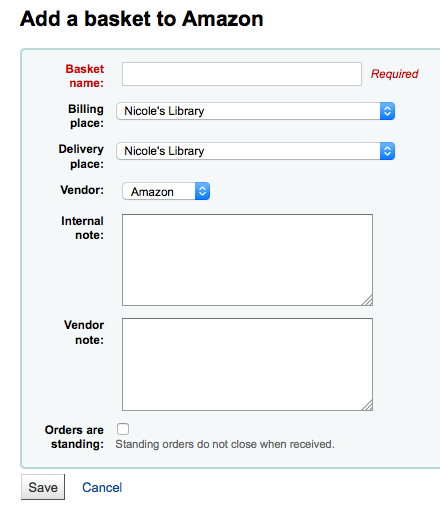
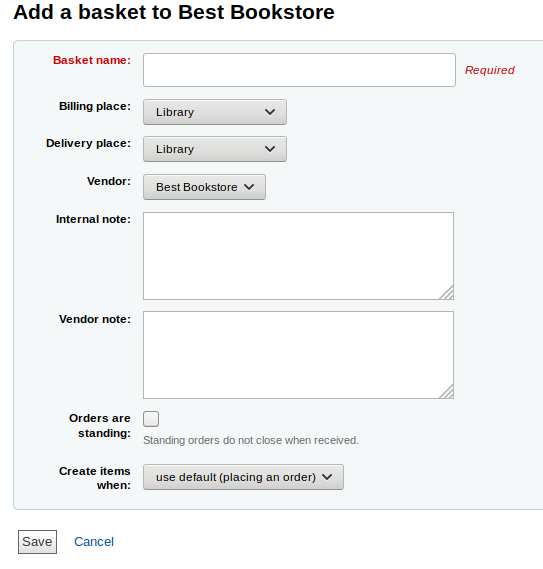
Revision of Create a basket section

diff --git a/source/acquisitions.rst b/source/acquisitions.rst
@@ -331,9 +331,11 @@ And click the 'New basket' button to the right of the vendor name.
 
     **Note**
 
-    You can also add to an existing basket by clicking the 'Add to
-    basket' link to the far right of each basket's information in the
-    results table.
+    You can also add to an existing basket by clicking the arrow next to 
+    the 'View' button at the far right of each basket's information in 
+    the results table, and choosing 'Add to basket'.
+
+    |image1406|
 
 After clicking 'New basket' you will be asked to enter some information
 about the order:
@@ -354,7 +356,13 @@ about the order:
 -  If you're ordering standing items (items which arrive regularly) then
    you will want to check the 'Orders are standing' box for this basket.
    
-   -  Note that any one basket cannot contain both firm and standing orders.   
+   -  Note that any one basket cannot contain both firm and standing orders. 
+
+-  You can choose to create items either upon placing the order, upon 
+   receiving the order, or upon cataloging the item. If you choose an 
+   option other than the default, it will apply only to this basket. 
+   The default is set by the :ref:`AcqCreateItem <acqcreateitem-label>` 
+   system preference.  
 
 If you have :ref:`added contracts <add-a-contract-label>` to the vendor
 you're ordering from, you will also have an option to choose which
@@ -362,12 +370,16 @@ contract you're ordering these items under.
 
 |image807|
 
-When finished, click 'Save'
+When finished, click 'Save'.
 
 |image808|
 
-Once your basket is created you are presented with several options for
-adding items to the order.
+Once your basket is created, click on 'Add to basket' you are presented 
+with several options for adding items to the order.
+
+|image1408|
+
+..Caroline was here
 
 -  If you are ordering another copy of an existing item, you can simply
    search for the record in your system.

diff --git a/source/images.rst b/source/images.rst
@@ -1392,4 +1392,5 @@
 .. |image1403| image:: images/circ/articlerequests/requestmanagement.png
 .. |image1404| image:: images/circ/articlerequests/actionsmenu.png
 .. |image1405| image:: images/circ/articlerequests/batchprocess.png
-
+.. |image1406| image:: images/acquisitions/addtobasket.png
+.. |image1407| image:: images/acquisitions/addtobasketoptions.png
